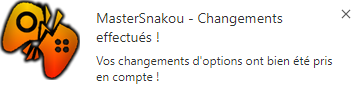
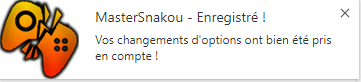
Mise à jour des images notifications

Changed region(s): [[0.0, 0.0, 1.0, 1.0], [0.2444, 0.561, 0.9472, 0.878], [0.2444, 0.122, 0.7944, 0.3171]]

diff --git a/Sans PHP/js/config.js b/Sans PHP/js/config.js
@@ -44,7 +44,7 @@ VideoIconUrl	    = "/images/omg.png";
 notifsoundYT 		= "../mp3/youtube.mp3";
 
 //Notification de changement d'options
-titleOptions	    = channel + " - Changements effectués !";
+titleOptions	    = channel + " - Enregistré !";
 messageOptions	    = "Vos changements d'options ont bien été pris en compte !";
 OptionsIconUrl	    = "/images/kc.png";
 
